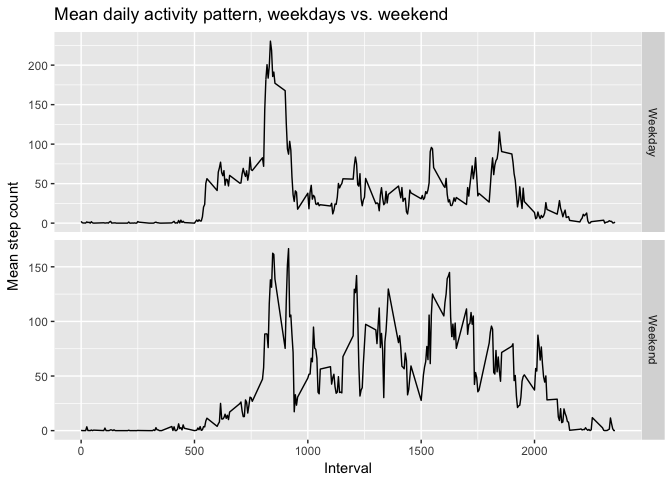
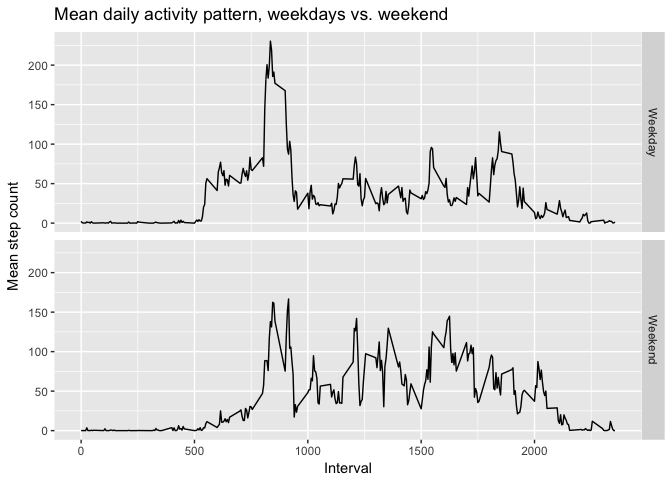
Updates

diff --git a/PA1_template.html b/PA1_template.html
@@ -224,8 +224,9 @@ head(activity.data.complete)</code></pre>
         labs(title=&quot;Mean daily activity pattern, weekdays vs. weekend&quot;, 
              x = &quot;Interval&quot;, 
              y = &quot;Mean step count&quot;) +
-        facet_grid(facets = part.of.the.week ~ ., scales=&quot;free&quot;)</code></pre>
+        facet_grid(facets = part.of.the.week ~ ., scales=&quot;fixed&quot;)</code></pre>
 <p><img src="figure/unnamed-chunk-18-1.png" /><!-- --></p>
+<p>From the plots it can be seen that the activity is more evenly distributed on weekends than on weekdays, it also starts and ends later.</p>
 </div>
 
 

diff --git a/PA1_template.md b/PA1_template.md
@@ -201,7 +201,9 @@ ggplot(activity.data.complete.mean.intervals) +
         labs(title="Mean daily activity pattern, weekdays vs. weekend", 
              x = "Interval", 
              y = "Mean step count") +
-        facet_grid(facets = part.of.the.week ~ ., scales="free")
+        facet_grid(facets = part.of.the.week ~ ., scales="fixed")
 ```
 
 ![](figure/unnamed-chunk-18-1.png)<!-- -->
+
+From the plots it can be seen that the activity is more evenly distributed on weekends than on weekdays, it also starts and ends later.
